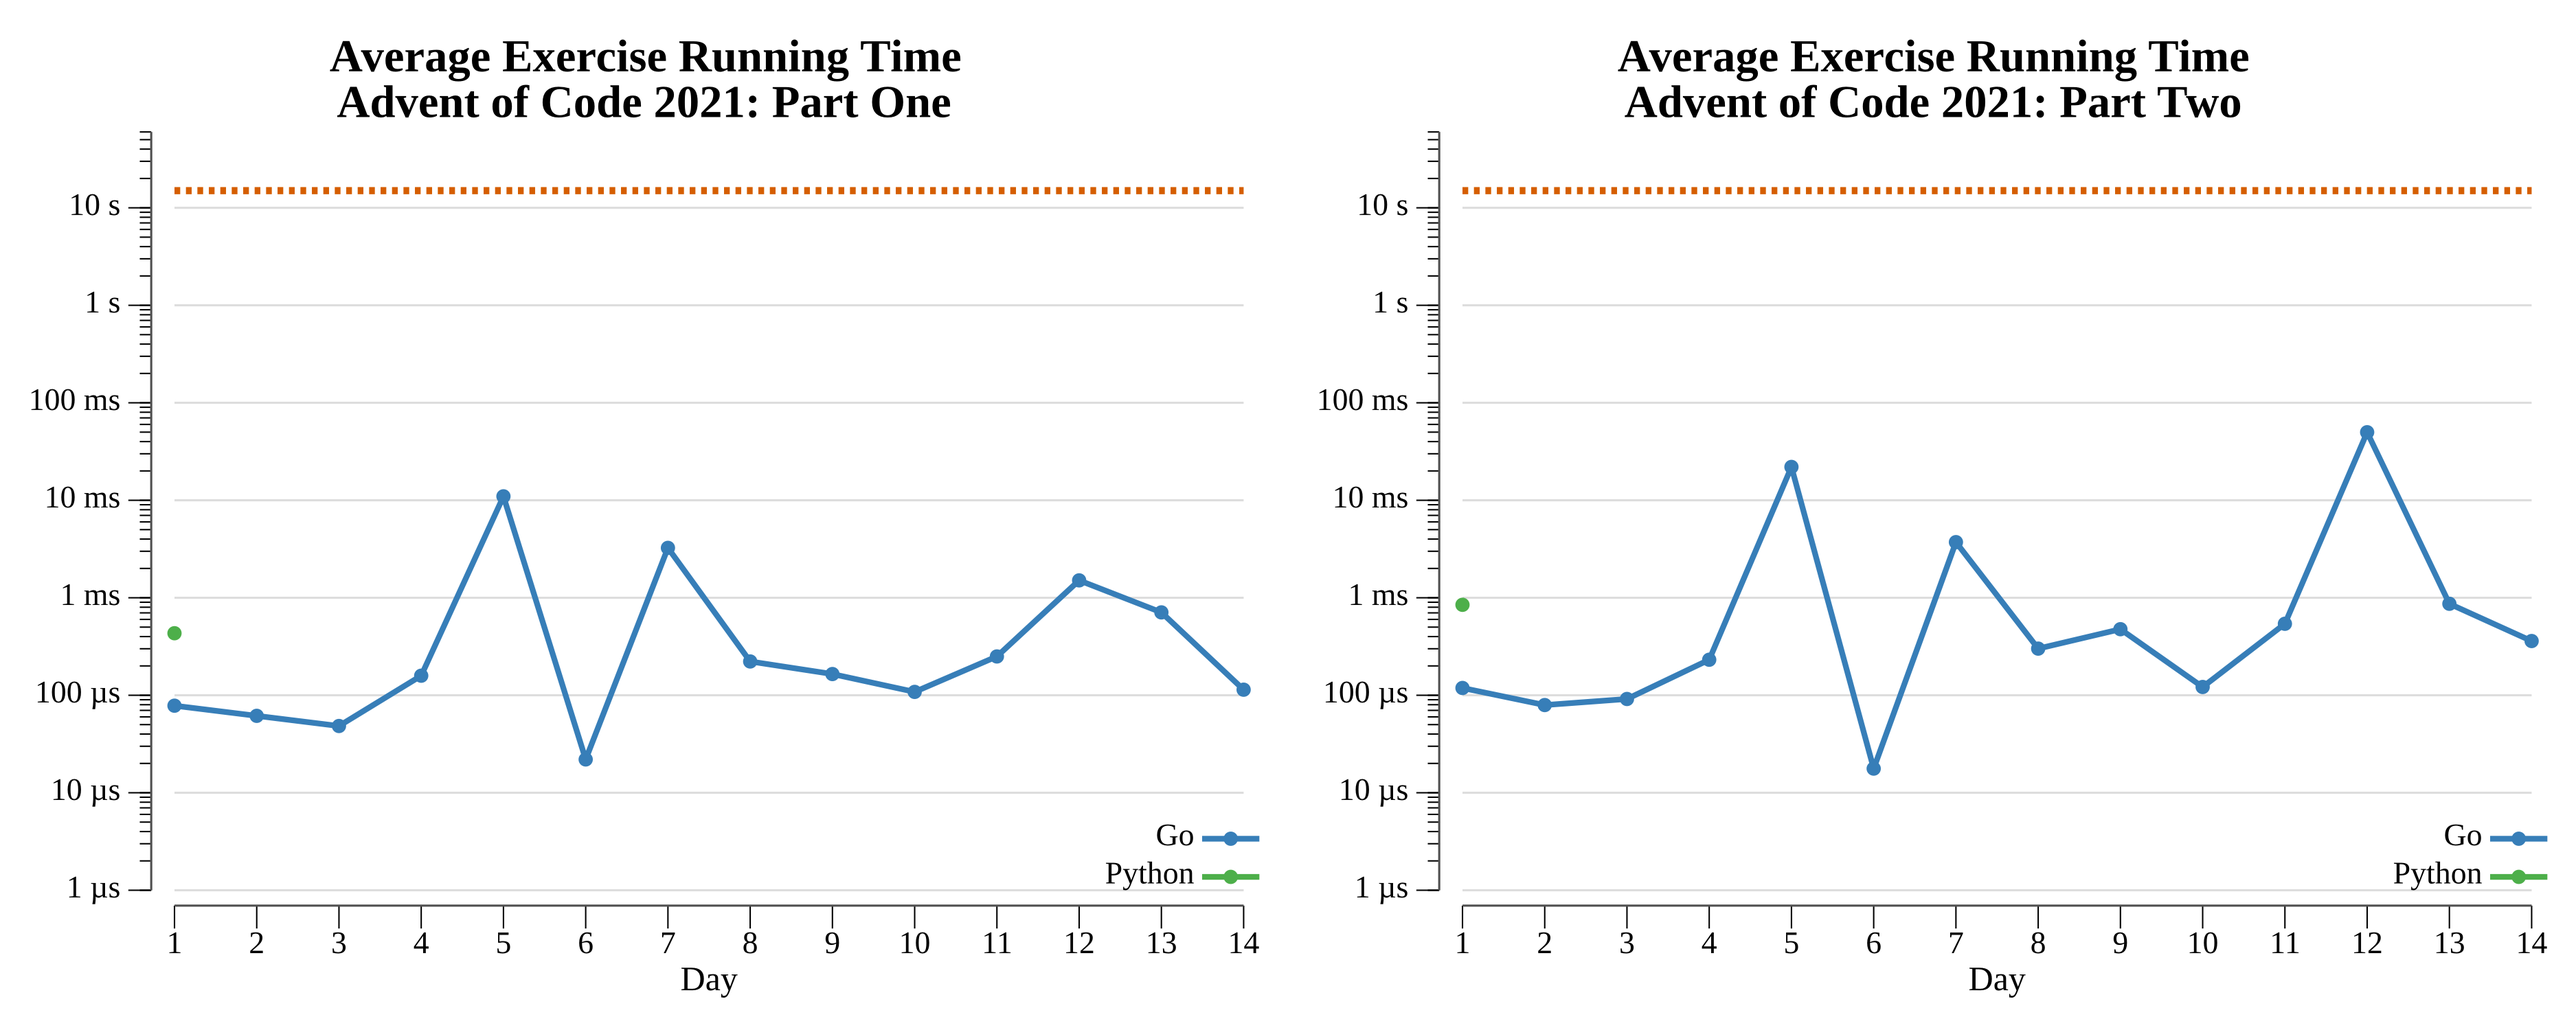
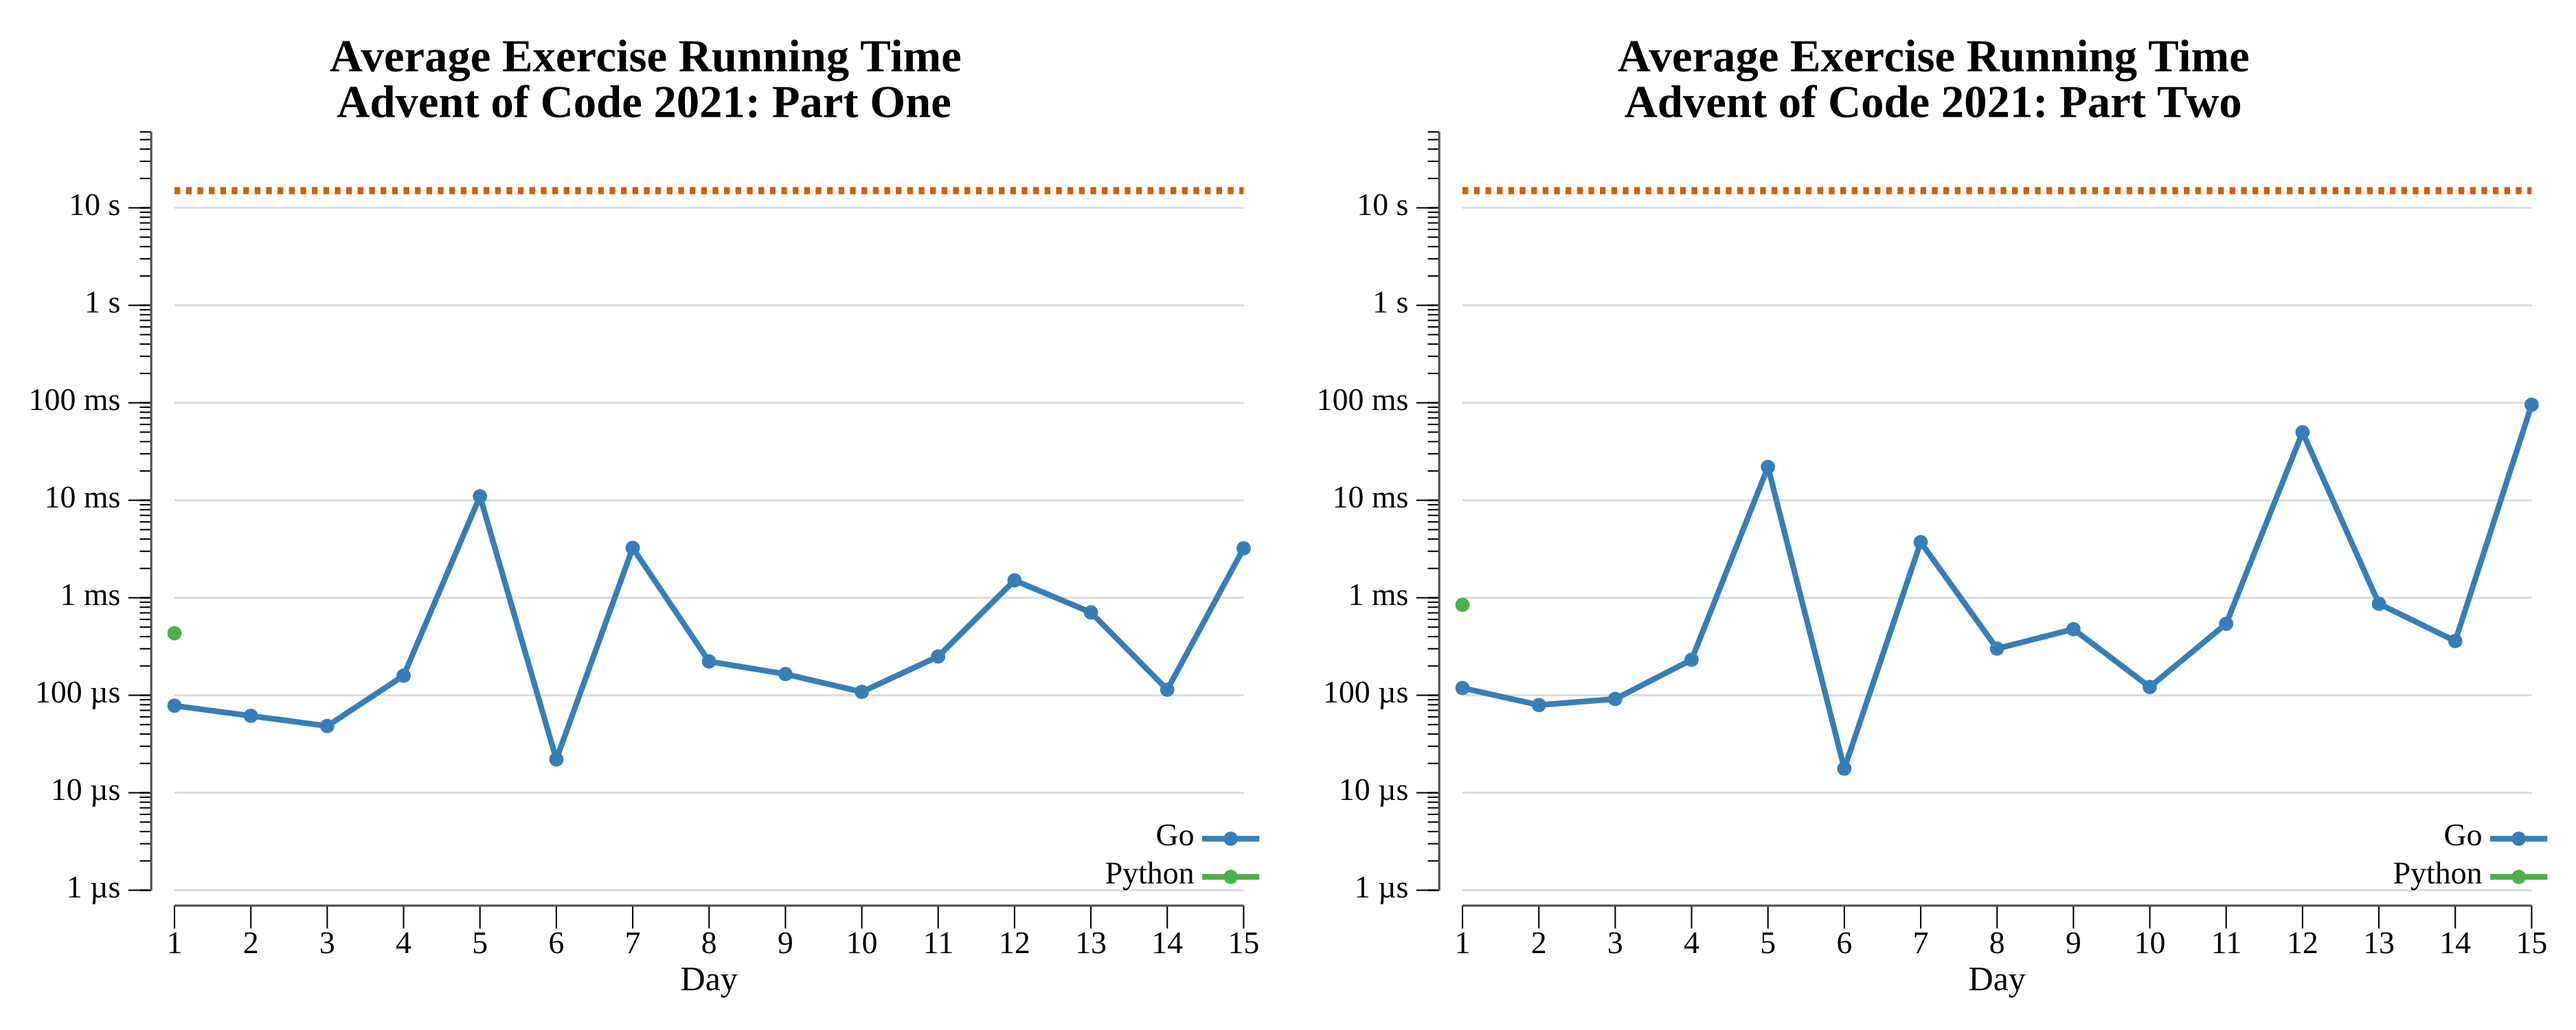
2021 day 15

diff --git a/exercises/2021/15-chiton/go/vis.go b/exercises/2021/15-chiton/go/vis.go
@@ -1,0 +1,140 @@
+package exercises
+
+import (
+	"container/heap"
+	"image"
+	"image/color"
+	"image/png"
+	"os"
+	"path/filepath"
+)
+
+// Vis renders the full part-two 5x5-expanded risk grid as a PNG and traces the
+// lowest-risk path across it. Risk is drawn as a dark-to-bright relief (low risk
+// dark, high risk bright), and the optimal path from the top-left to the
+// bottom-right is overlaid in vermilion. The path threads through the low-risk
+// (dark) valleys while avoiding the bright high-risk cells. Risk is encoded by
+// brightness, so the terrain reads in grayscale; the path stays visible as a
+// continuous line.
+func (e Exercise) Vis(instr, outdir string) error {
+	base, err := parse(instr)
+	if err != nil {
+		return err
+	}
+	grid := expand(base, 5)
+	rows, cols := len(grid), len(grid[0])
+
+	path := lowestRiskPath(grid)
+	onPath := make([][]bool, rows)
+	for r := range onPath {
+		onPath[r] = make([]bool, cols)
+	}
+	// halo marks a dark outline one cell around the path so the bright path
+	// separates from the risk field regardless of the local brightness.
+	halo := make([][]bool, rows)
+	for r := range halo {
+		halo[r] = make([]bool, cols)
+	}
+	// Thicken the path to a 2x2 block per cell so it reads as a continuous line.
+	for _, p := range path {
+		for _, d := range [][2]int{{0, 0}, {1, 0}, {0, 1}, {1, 1}} {
+			nr, nc := p[0]+d[0], p[1]+d[1]
+			if nr < rows && nc < cols {
+				onPath[nr][nc] = true
+			}
+		}
+	}
+	for r := 0; r < rows; r++ {
+		for c := 0; c < cols; c++ {
+			if !onPath[r][c] {
+				continue
+			}
+			for dr := -1; dr <= 1; dr++ {
+				for dc := -1; dc <= 1; dc++ {
+					nr, nc := r+dr, c+dc
+					if nr >= 0 && nr < rows && nc >= 0 && nc < cols && !onPath[nr][nc] {
+						halo[nr][nc] = true
+					}
+				}
+			}
+		}
+	}
+
+	img := image.NewRGBA(image.Rect(0, 0, cols, rows))
+	for r := 0; r < rows; r++ {
+		for c := 0; c < cols; c++ {
+			switch {
+			case onPath[r][c]:
+				// Path drawn brightest (white) so it stays distinct in grayscale;
+				// a warm tint keeps it identifiable in color too.
+				img.SetRGBA(c, r, color.RGBA{0xff, 0xf0, 0xd8, 0xff})
+			case halo[r][c]:
+				img.SetRGBA(c, r, color.RGBA{0x08, 0x06, 0x02, 0xff}) // dark outline
+			default:
+				// Risk 1..9 mapped to a dark-to-bright blue-gray relief.
+				f := float64(grid[r][c]-1) / 8
+				v := uint8(24 + 200*f)
+				img.SetRGBA(c, r, color.RGBA{uint8(float64(v) * 0.8), uint8(float64(v) * 0.85), v, 0xff})
+			}
+		}
+	}
+
+	f, err := os.Create(filepath.Join(outdir, "chiton.png"))
+	if err != nil {
+		return err
+	}
+	defer f.Close()
+	return png.Encode(f, img)
+}
+
+// lowestRiskPath runs Dijkstra like lowestRisk but keeps a best-known distance
+// and predecessor per cell so the optimal path can be reconstructed.
+func lowestRiskPath(grid [][]int) [][2]int {
+	rows, cols := len(grid), len(grid[0])
+	const inf = 1 << 30
+	dist := make([][]int, rows)
+	prev := make([][][2]int, rows)
+	for r := range dist {
+		dist[r] = make([]int, cols)
+		prev[r] = make([][2]int, cols)
+		for c := range dist[r] {
+			dist[r][c] = inf
+			prev[r][c] = [2]int{-1, -1}
+		}
+	}
+	dist[0][0] = 0
+
+	pq := &pqueue{}
+	heap.Push(pq, node{0, 0, 0})
+
+	for pq.Len() > 0 {
+		cur := heap.Pop(pq).(node)
+		if cur.risk > dist[cur.r][cur.c] {
+			continue // stale queue entry
+		}
+		if cur.r == rows-1 && cur.c == cols-1 {
+			break
+		}
+		for _, m := range moves {
+			nr, nc := cur.r+m[0], cur.c+m[1]
+			if nr < 0 || nr >= rows || nc < 0 || nc >= cols {
+				continue
+			}
+			nd := cur.risk + grid[nr][nc]
+			if nd < dist[nr][nc] {
+				dist[nr][nc] = nd
+				prev[nr][nc] = [2]int{cur.r, cur.c}
+				heap.Push(pq, node{nd, nr, nc})
+			}
+		}
+	}
+
+	// Walk back from the goal.
+	var path [][2]int
+	cur := [2]int{rows - 1, cols - 1}
+	for cur != [2]int{-1, -1} {
+		path = append(path, cur)
+		cur = prev[cur[0]][cur[1]]
+	}
+	return path
+}

diff --git a/exercises/2021/15-chiton/go/exercise.go b/exercises/2021/15-chiton/go/exercise.go
@@ -1,0 +1,130 @@
+package exercises
+
+import (
+	"container/heap"
+	"fmt"
+	"strings"
+
+	"github.com/asphaltbuffet/advent-of-code/internal/common"
+)
+
+// Exercise for Advent of Code 2021 day 15.
+type Exercise struct {
+	common.BaseExercise
+}
+
+func parse(instr string) ([][]int, error) {
+	var grid [][]int
+
+	for _, line := range strings.Split(strings.TrimSpace(instr), "\n") {
+		line = strings.TrimSpace(line)
+		if line == "" {
+			continue
+		}
+
+		row := make([]int, len(line))
+		for i, c := range line {
+			if c < '0' || c > '9' {
+				return nil, fmt.Errorf("non-digit %q in risk grid", c)
+			}
+			row[i] = int(c - '0')
+		}
+		grid = append(grid, row)
+	}
+
+	return grid, nil
+}
+
+// expand tiles the grid 5x5; a cell in tile (tr,tc) has risk raised by tr+tc,
+// wrapping from 9 back to 1.
+func expand(grid [][]int, factor int) [][]int {
+	rows, cols := len(grid), len(grid[0])
+	big := make([][]int, rows*factor)
+	for r := range big {
+		big[r] = make([]int, cols*factor)
+		for c := range big[r] {
+			base := grid[r%rows][c%cols]
+			add := r/rows + c/cols
+			big[r][c] = (base+add-1)%9 + 1
+		}
+	}
+	return big
+}
+
+type node struct {
+	risk, r, c int
+}
+
+type pqueue []node
+
+func (q pqueue) Len() int           { return len(q) }
+func (q pqueue) Less(i, j int) bool { return q[i].risk < q[j].risk }
+func (q pqueue) Swap(i, j int)      { q[i], q[j] = q[j], q[i] }
+func (q *pqueue) Push(x any)        { *q = append(*q, x.(node)) }
+func (q *pqueue) Pop() any {
+	old := *q
+	n := len(old)
+	item := old[n-1]
+	*q = old[:n-1]
+	return item
+}
+
+var moves = [4][2]int{{-1, 0}, {1, 0}, {0, -1}, {0, 1}}
+
+// lowestRisk runs Dijkstra from the top-left to the bottom-right, summing the
+// risk of every entered cell (the start cell's risk is not counted).
+func lowestRisk(grid [][]int) int {
+	rows, cols := len(grid), len(grid[0])
+	dist := make([][]int, rows)
+	for r := range dist {
+		dist[r] = make([]int, cols)
+		for c := range dist[r] {
+			dist[r][c] = -1
+		}
+	}
+
+	pq := &pqueue{}
+	heap.Push(pq, node{0, 0, 0})
+
+	for pq.Len() > 0 {
+		cur := heap.Pop(pq).(node)
+		if dist[cur.r][cur.c] != -1 {
+			continue // already finalized with a lower risk
+		}
+		dist[cur.r][cur.c] = cur.risk
+
+		if cur.r == rows-1 && cur.c == cols-1 {
+			return cur.risk
+		}
+
+		for _, m := range moves {
+			nr, nc := cur.r+m[0], cur.c+m[1]
+			if nr < 0 || nr >= rows || nc < 0 || nc >= cols || dist[nr][nc] != -1 {
+				continue
+			}
+			heap.Push(pq, node{cur.risk + grid[nr][nc], nr, nc})
+		}
+	}
+
+	return -1
+}
+
+// One returns the answer to the first part of the exercise.
+func (e Exercise) One(instr string) (any, error) {
+	grid, err := parse(instr)
+	if err != nil {
+		return nil, fmt.Errorf("parsing input: %w", err)
+	}
+
+	return fmt.Sprintf("%d", lowestRisk(grid)), nil
+}
+
+// Two returns the answer to the second part of the exercise.
+func (e Exercise) Two(instr string) (any, error) {
+	grid, err := parse(instr)
+	if err != nil {
+		return nil, fmt.Errorf("parsing input: %w", err)
+	}
+
+	return fmt.Sprintf("%d", lowestRisk(expand(grid, 5))), nil
+}

diff --git a/exercises/2021/15-chiton/README.md b/exercises/2021/15-chiton/README.md
@@ -1,0 +1,46 @@
+# [Day 15: Chiton](https://adventofcode.com/2021/day/15)
+
+<!-- These are helper text to make formatting the yearly readme consistent and easier...
+
+[Day 15: Chiton][rm15]
+[Go][go15]
+
+[rm15]: 15-chiton/README.md
+[go15]: 15-chiton/go
+
+-->
+
+## Notes
+
+Lowest-total-risk path from the top-left to the bottom-right with non-negative
+weights — Dijkstra with a `container/heap` priority queue. Part One runs on the
+given grid. Part Two tiles it 5×5, where a cell in tile `(tr, tc)` has risk
+`(orig + tr + tc - 1) % 9 + 1` (the `-1`/`+1` keeps the wrap in 1–9); the same
+Dijkstra then runs on the 500×500 expanded grid.
+
+## Go
+
+```text
+────────────────────────────────────────
+─         2021 Day 15: Chiton          ─
+────────────────────────────────────────
+
+Solving (Go)…
+1.0:  PASS             4.058ms
+2.0:  PASS           101.150ms
+```
+
+## Visualization
+
+The full part-two 5×5-expanded risk grid as a PNG, with the lowest-risk path
+traced across it. Risk is a dark-to-bright relief (low risk dark, high risk
+bright); the optimal path is drawn as a bright line with a dark outline so it
+stays distinct against the field at any local brightness — visibly winding to
+seek out low-risk cells rather than running straight. Risk is brightness-encoded
+and the outlined path survives grayscale.
+
+![Chiton lowest-risk path](chiton.png)
+
+## Run Times
+
+![Day 15 run-time graphs](run-times.png)

diff --git a/exercises/2021/README.md b/exercises/2021/README.md
@@ -20,7 +20,7 @@
 | [Day 12: Passage Pathing](12-passagePathing/README.md) |  ★ ★  | [Go](12-passagePathing/go)                         |
 | [Day 13: Transparent Origami](13-transparentOrigami/README.md) |  ★ ★  | [Go](13-transparentOrigami/go)                     |
 | [Day 14: Extended Polymerization](14-extendedPolymerization/README.md) |  ★ ★  | [Go](14-extendedPolymerization/go)                 |
-| 15                                            |  ☆ ☆  |                                                    |
+| [Day 15: Chiton](15-chiton/README.md)         |  ★ ★  | [Go](15-chiton/go)                                 |
 | 16                                            |  ☆ ☆  |                                                    |
 | 17                                            |  ☆ ☆  |                                                    |
 | 18                                            |  ☆ ☆  |                                                    |
